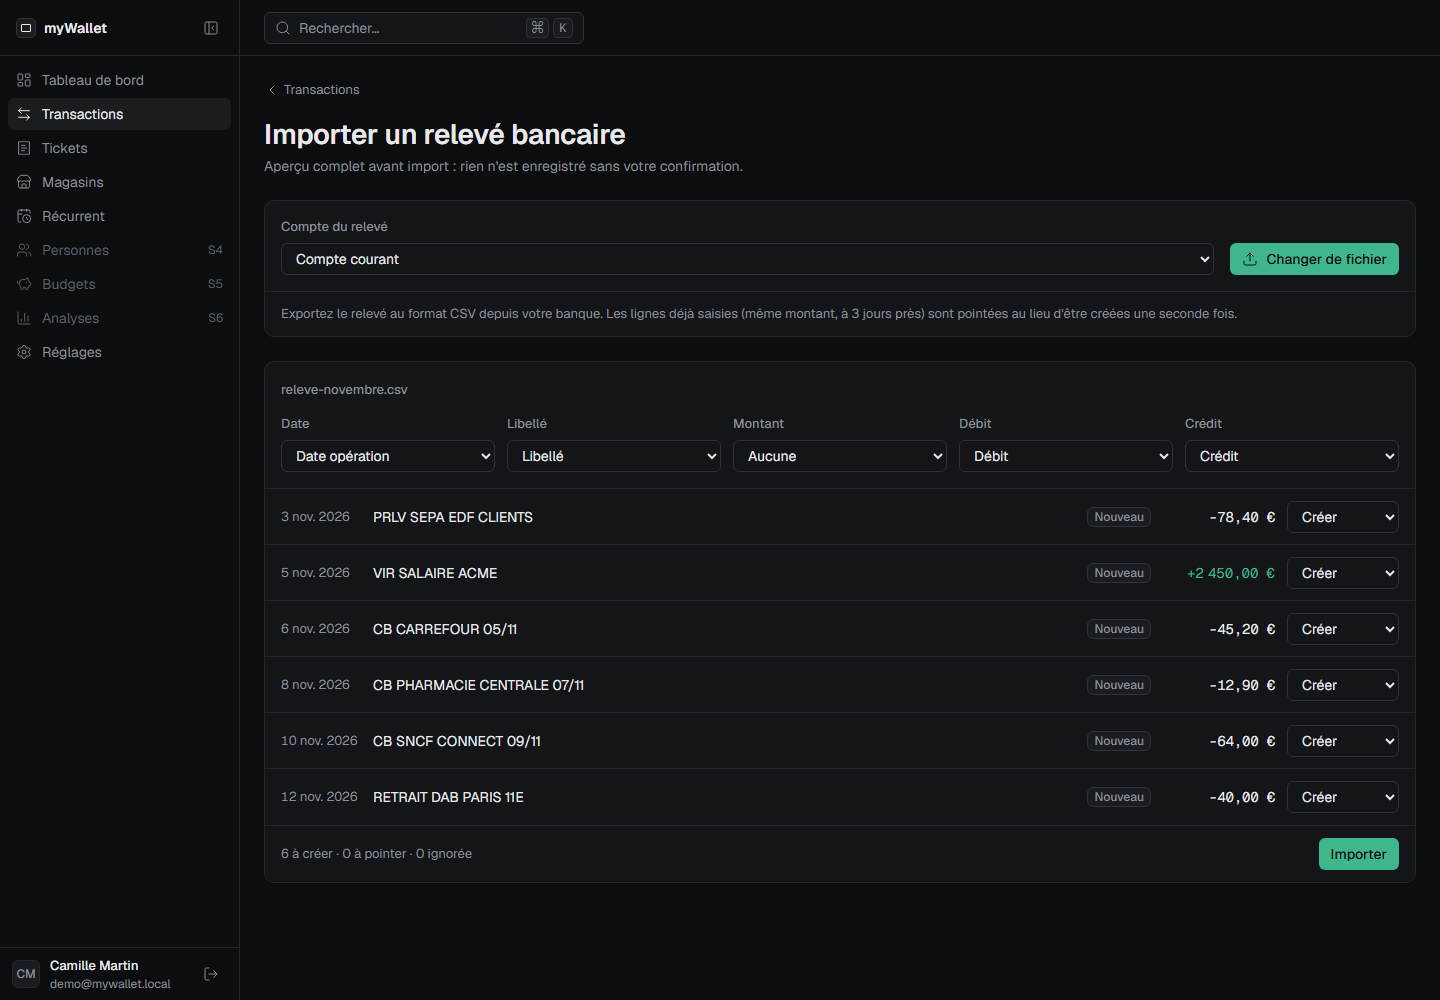
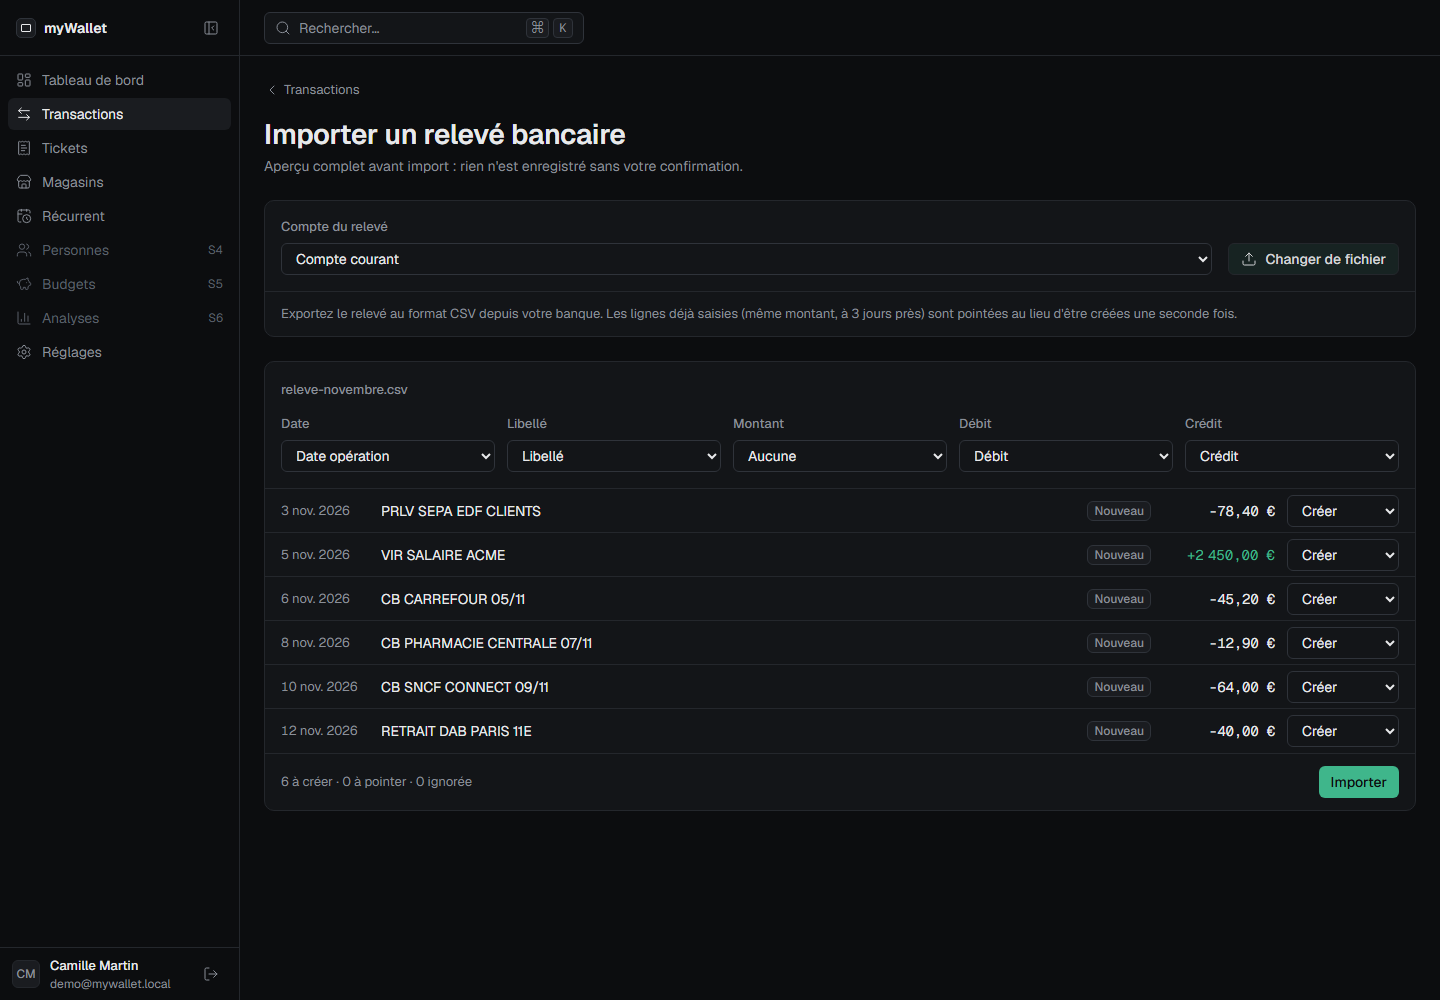
fix(receipts): qualify exists subqueries (thumbnail flag, attach guard)
Drizzle renders columns unqualified inside sql``, so the correlated subqueries
compared the subquery's own columns: thumbnails were never flagged and the
'no lines' attach guard always passed. Explicit aliases, with tests that fail
on the old SQL. Review form: item label on its own row on mobile.

diff --git a/tests/integration/imports.test.ts b/tests/integration/imports.test.ts
@@ -517,6 +517,62 @@ describe("guards (security review)", () => {
     expect(r).toEqual({ ok: false, error: "Mouvement bancaire introuvable." });
   });
 
+  it("flags receipts that have a thumbnail", async () => {
+    const thumb = jpeg(91);
+    const r = await createReceipt(A, { data: jpeg(92), filename: "t.jpg", thumbnail: thumb });
+    if (!r.ok) throw new Error(r.error);
+    expect((await listReceipts(A)).find((x) => x.id === r.data.id)?.hasThumbnail).toBe(true);
+    expect((await getReceipt(A, r.data.id))?.hasThumbnail).toBe(true);
+    const plain = await upload(A, 93);
+    expect((await listReceipts(A)).find((x) => x.id === plain.id)?.hasThumbnail).toBe(false);
+  });
+
+  it("never attaches to an imported movement that already has lines", async () => {
+    const file = CSV(["13/11/2026;CB PICARD 13/11;31,40;"]);
+    const preview = await previewBankImport(A, { accountId: checking, csv: file, mapping: null });
+    if (!preview.ok || !preview.data.mapping) throw new Error("preview");
+    await commitBankImport(A, {
+      accountId: checking,
+      csv: file,
+      mapping: preview.data.mapping,
+      decisions: [],
+    });
+    const [line] = await db
+      .select({ id: transactions.id })
+      .from(transactions)
+      .where(and(eq(transactions.userId, A), eq(transactions.bankLabel, "CB PICARD 13/11")));
+    await db.insert(transactionItems).values({
+      userId: A,
+      transactionId: line!.id,
+      label: "Glaces",
+      totalCents: 3140,
+    });
+    const id = (await upload(A, 94)).id;
+    await saveExtraction(
+      A,
+      {
+        receiptId: id,
+        ocrText: "PICARD\nGLACES 31,40\nTOTAL 31,40\n13/11/2026",
+        ocrEngine: "tesseract",
+        failure: null,
+      },
+      TODAY,
+    );
+    expect((await getReceipt(A, id))?.bankMatches.map((m) => m.id)).not.toContain(line!.id);
+    const r = await confirmReceipt(
+      A,
+      id,
+      review({
+        amount: "31,40",
+        occurredOn: "2026-11-13",
+        items: [],
+        returnDeadline: "",
+        attachToTransactionId: line!.id,
+      }),
+    );
+    expect(r).toEqual({ ok: false, error: "Mouvement bancaire introuvable." });
+  });
+
   it("limits uploads per hour", async () => {
     const [C = ""] = await createUsers(1);
     try {

diff --git a/src/lib/server/receipts.ts b/src/lib/server/receipts.ts
@@ -199,11 +199,13 @@ export async function listReceipts(
       createdAt: receipts.createdAt,
       extracted: receipts.extracted,
       transactionId: receipts.transactionId,
+      // Explicit aliases: Drizzle renders columns unqualified inside sql``, which would
+      // resolve to the subquery's own table.
       hasThumbnail: sql<boolean>`exists (
-        select 1 from ${receiptFiles}
-        where ${receiptFiles.userId} = ${receipts.userId}
-          and ${receiptFiles.receiptId} = ${receipts.id}
-          and ${receiptFiles.kind} = 'thumbnail')`,
+        select 1 from receipt_files f
+        where f.user_id = ${receipts}.user_id
+          and f.receipt_id = ${receipts}.id
+          and f.kind = 'thumbnail')`,
     })
     .from(receipts)
     .where(
@@ -337,9 +339,9 @@ export async function findBankMatches(
         isNull(receipts.id),
         isNotNull(transactions.bankLineKey),
         sql`not exists (
-          select 1 from ${transactionItems}
-          where ${transactionItems.userId} = ${transactions.userId}
-            and ${transactionItems.transactionId} = ${transactions.id})`,
+          select 1 from transaction_items i
+          where i.user_id = ${transactions}.user_id
+            and i.transaction_id = ${transactions}.id)`,
       ),
     )
     .orderBy(sql`abs(${transactions.occurredOn} - ${date}::date)`, asc(transactions.occurredOn))
@@ -536,9 +538,9 @@ export async function confirmReceipt(
             kind: transactions.kind,
             bankLineKey: transactions.bankLineKey,
             hasItems: sql<boolean>`exists (
-              select 1 from ${transactionItems}
-              where ${transactionItems.userId} = ${transactions.userId}
-                and ${transactionItems.transactionId} = ${transactions.id})`,
+              select 1 from transaction_items i
+              where i.user_id = ${transactions}.user_id
+                and i.transaction_id = ${transactions}.id)`,
           })
           .from(transactions)
           .where(

diff --git a/src/components/receipts/review-form.tsx b/src/components/receipts/review-form.tsx
@@ -329,11 +329,12 @@ export function ReviewForm({
                 return (
                   <li
                     key={field.id}
-                    className="grid grid-cols-[minmax(0,1fr)_4rem_6.5rem_2.75rem] items-center gap-2 px-2 py-1.5"
+                    className="grid grid-cols-[4rem_minmax(0,1fr)_2.75rem] items-center gap-2 px-2 py-2 sm:grid-cols-[minmax(0,1fr)_4rem_6.5rem_2.75rem] sm:py-1.5"
                   >
                     <Input
                       aria-label={`Libellé de la ligne ${index + 1}`}
                       aria-invalid={Boolean(err?.label)}
+                      className="col-span-3 sm:col-span-1"
                       autoComplete="off"
                       {...form.register(`items.${index}.label`)}
                     />
